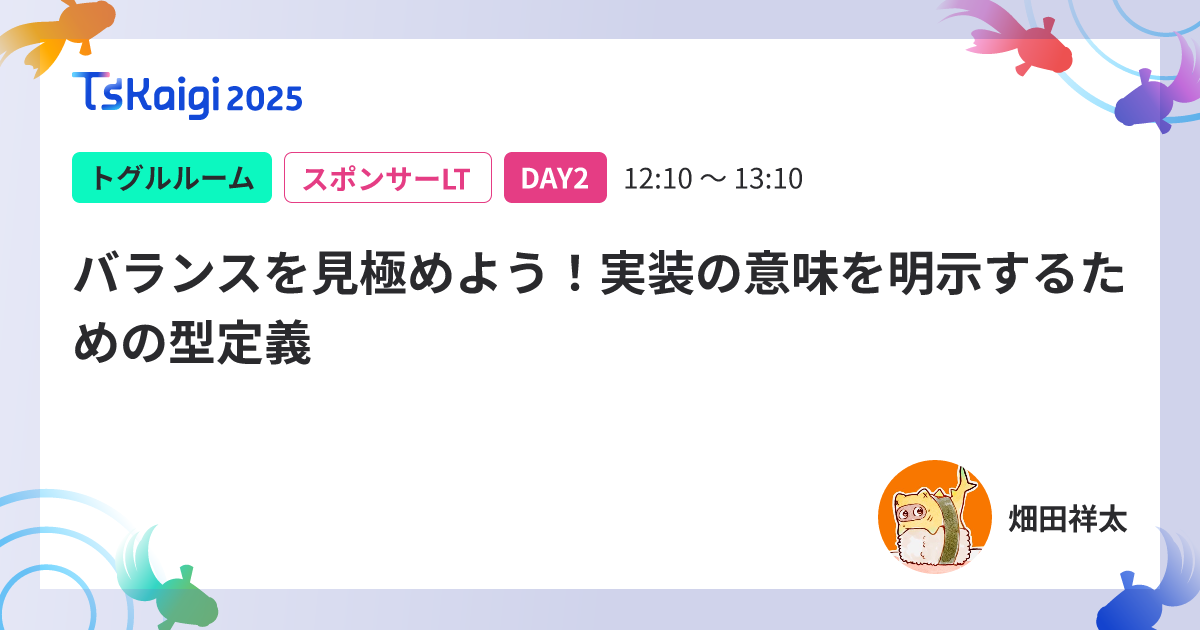
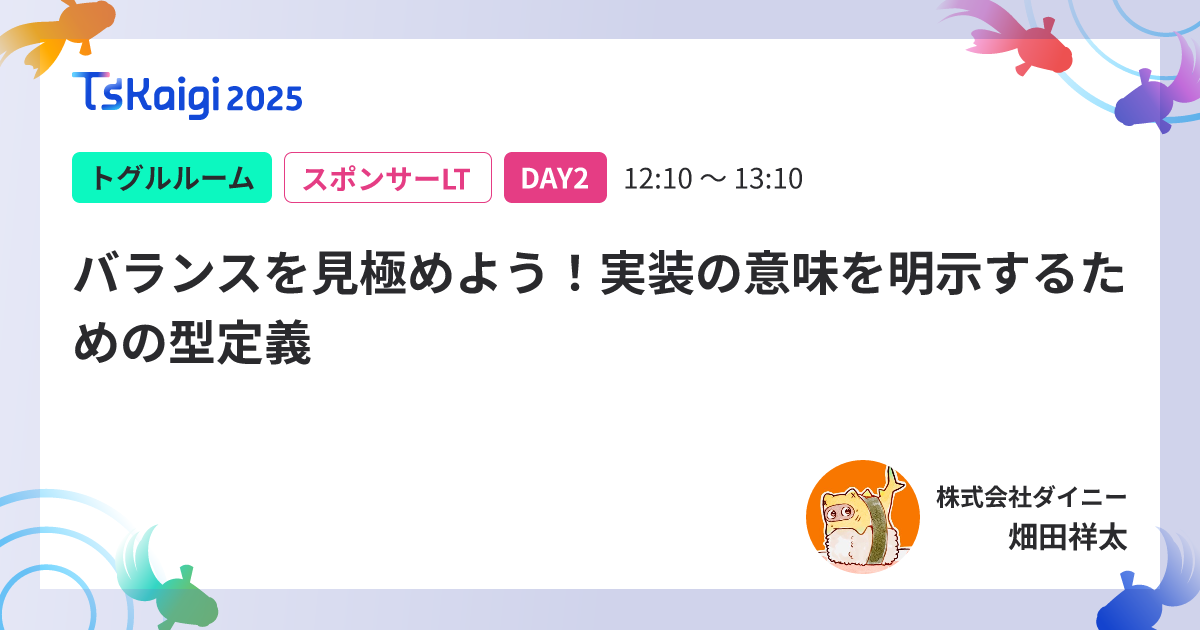
fix: ogpに所属会社の追加

Changed region(s): [[0.6475, 0.7238, 0.9558, 0.9349]]

diff --git a/src/constants/talkList.ts b/src/constants/talkList.ts
@@ -54,6 +54,7 @@ export type Speaker = {
   additionalLink?: string;
   affiliation?: string;
   position?: string;
+  company?: string;
 };
 
 export type Talk = {
@@ -1635,8 +1636,9 @@ TypeScript を学ぶ上で、「型」はしばしば静的なラベルのよう
       xId: "yokkori_dev",
       githubId: undefined,
       additionalLink: undefined,
-      affiliation: "株式会社 CARTA HOLDINGS",
+      affiliation: "株式会社CARTA HOLDINGS",
       position: "リードエンジニア",
+      company: "株式会社CARTA HOLDINGS",
     },
   },
   {
@@ -1658,6 +1660,7 @@ TypeScript を学ぶ上で、「型」はしばしば静的なラベルのよう
       additionalLink: undefined,
       affiliation: "株式会社TwoGate",
       position: "取締役CTO",
+      company: "株式会社TwoGate",
     },
   },
   {
@@ -1679,6 +1682,7 @@ TypeScript を学ぶ上で、「型」はしばしば静的なラベルのよう
       additionalLink: undefined,
       affiliation: "Nstock株式会社",
       position: "Software Engineer",
+      company: "Nstock株式会社",
     },
   },
   {
@@ -1693,13 +1697,14 @@ TypeScript を学ぶ上で、「型」はしばしば静的なラベルのよう
     speaker: {
       name: "高橋 修平",
       username: "avita",
-      profileImagePath: undefined,
+      profileImagePath: "avita.png",
       bio: "2023年、AVITA株式会社に入社。フロントエンドエンジニアとして、アバター接客ツール「AVACOM」の開発に従事。今秋のスポーツモデルの大会に向けて絶賛減量中。",
       xId: undefined,
       githubId: undefined,
       additionalLink: undefined,
-      affiliation: "AVITA株式会社",
+      affiliation: "AVITA株式会社 開発局",
       position: "フロントエンドエンジニア",
+      company: "AVITA株式会社",
     },
   },
   {
@@ -1723,6 +1728,7 @@ TypeScript を学ぶ上で、「型」はしばしば静的なラベルのよう
       affiliation:
         "KINTOテクノロジーズ株式会社 共通サービス開発グループ/AI開発グループ",
       position: "フロントエンドエンジニア、バックエンドエンジニア",
+      company: "KINTOテクノロジーズ株式会社",
     },
   },
   {
@@ -1744,6 +1750,7 @@ TypeScript を学ぶ上で、「型」はしばしば静的なラベルのよう
       additionalLink: undefined,
       affiliation: "株式会社ダイニー",
       position: "プラットフォームエンジニア",
+      company: "株式会社ダイニー",
     },
   },
   {
@@ -1766,6 +1773,7 @@ TypeScript を学ぶ上で、「型」はしばしば静的なラベルのよう
       additionalLink: undefined,
       affiliation: "レバレジーズ株式会社 アジャイルエフェクトチーム",
       position: "エンジニア",
+      company: "レバレジーズ株式会社",
     },
   },
   {
@@ -1788,6 +1796,7 @@ TypeScript を学ぶ上で、「型」はしばしば静的なラベルのよう
       additionalLink: undefined,
       affiliation: "クラフトバンク株式会社",
       position: "VPoE",
+      company: "クラフトバンク株式会社",
     },
   },
 ];

diff --git a/src/scripts/ogp/Talk.tsx b/src/scripts/ogp/Talk.tsx
@@ -1,4 +1,4 @@
-import fs from "node:fs";
+  import fs from "node:fs";
 import path from "node:path";
 // biome-ignore lint/correctness/noUnusedImports: <explanation>
 import React from "react";
@@ -519,15 +519,32 @@ export function Talk({
                 flexDirection: "column",
               }}
             >
-              <span
-                style={{
-                  fontSize: "30px",
-                  fontWeight: 700,
-                  color: "#2A2A2D",
-                }}
-              >
-                {speaker.name}
-              </span>
+              {talkType === "SPONSOR_LT" ? (
+                <div
+                  style={{
+                    fontWeight: 700,
+                    color: "#2A2A2D",
+                    display: "flex",
+                    flexDirection: "column",
+                    alignItems: "flex-end",
+                  }}
+                >
+                  <span style={{ fontSize: "24px" }}>
+                    {speaker.company}
+                  </span>
+                  <span style={{ fontSize: "30px" }}>{speaker.name}</span>
+                </div>
+              ) : (
+                <span
+                  style={{
+                    fontSize: "30px",
+                    fontWeight: 700,
+                    color: "#2A2A2D",
+                  }}
+                >
+                  {speaker.name}
+                </span>
+              )}
             </div>
           </div>
         </div>
